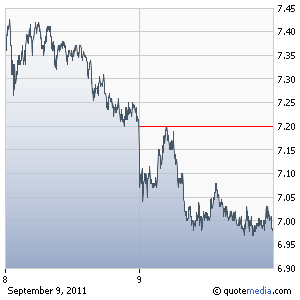
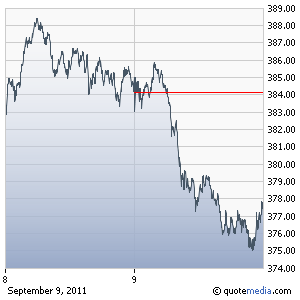
second commit

Changed region(s): [[0.0, 0.0, 0.99, 0.9], [0.45, 0.9, 0.48, 0.96]]

diff --git a/app/controllers/stocks_controller.rb b/app/controllers/stocks_controller.rb
@@ -6,9 +6,9 @@ class StocksController < ApplicationController
   end
 
   def show
-    $ticker=session[:ticker]
-    @image_path=getSavedImageName("/quotetools/getChart?webmasterId=91004&snap=true&symbol="+"BAC"+"&chscale=2d&chtype=AreaChart&locale=en_US&chwid=300&chhig=300&chpccol=ff0000&chfrmon=false&chton=false&chpcon=true")  
-    @full_image_path="http://app.quotemedia.com/quotetools/getChart?webmasterId=91004&snap=true&symbol="+"BAC"+"&chscale=2d&chtype=AreaChart&locale=en_US&chwid=300&chhig=300&chpccol=ff0000&chfrmon=false&chton=false&chpcon=true"
+    $ticker=session[:ticker] || "GE"
+    @image_path=getSavedImageName("/quotetools/getChart?webmasterId=91004&snap=true&symbol="+$ticker+"&chscale=2d&chtype=AreaChart&locale=en_US&chwid=300&chhig=300&chpccol=ff0000&chfrmon=false&chton=false&chpcon=true")  
+    @full_image_path="http://app.quotemedia.com/quotetools/getChart?webmasterId=91004&snap=true&symbol="+$ticker+"&chscale=2d&chtype=AreaChart&locale=en_US&chwid=300&chhig=300&chpccol=ff0000&chfrmon=false&chton=false&chpcon=true"
     #@array=topGainer()
     
   end
